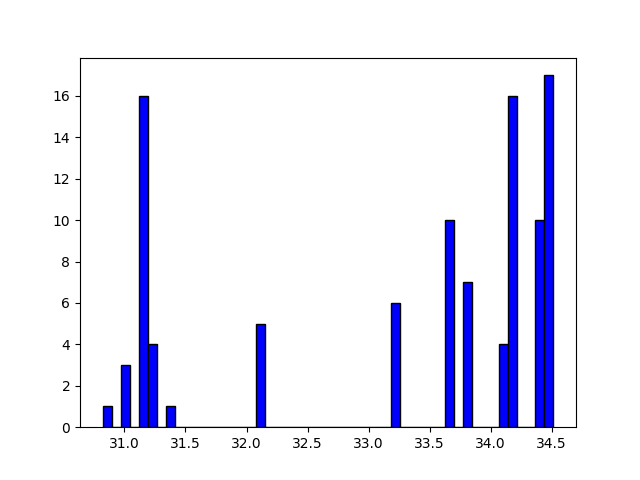
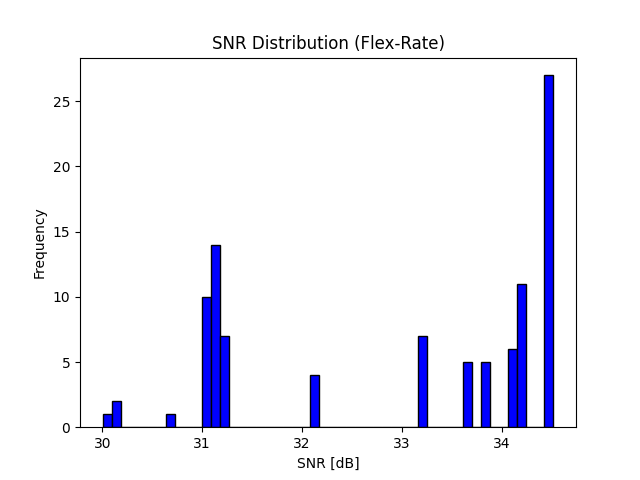
lab9: plots updated

diff --git a/Tasks/main.py b/Tasks/main.py
@@ -171,62 +171,95 @@ def main():
     latency_array3 = np.array(latency_no_zero3)
     bit_rate_array3 = np.array(bit_rate_no_zero3)
 
+    file = open(root / 'Results/Lab9/bit_rates_capacities_and_blocking_events.txt', "w")
+
+    file.write('- Blocking events:\n')
     print('Blocking events for full fixed rate = ', number_of_blocks_full_fixed)
+    file.write('\tBlocking events (Fixed-Rate) = ' + str(number_of_blocks_full_fixed) + '\n')
     print('Blocking events for full flex rate = ', number_of_blocks_full_flex)
+    file.write('\tBlocking events (Flex-Rate) = ' + str(number_of_blocks_full_flex) + '\n')
     print('Blocking events for full shannon = ', number_of_blocks_full_shannon)
+    file.write('\tBlocking events (Shannon) = ' + str(number_of_blocks_full_shannon) + '\n\n')
 
-    file = open(root / 'Results/Lab9/bit_rates_and_capacities.txt', "a")
-
+    file.write('- Bit Rate mean:\n')
     bit_rate_mean = np.mean(bit_rate_array)
     bit_rate_mean2 = np.mean(bit_rate_array2)
     bit_rate_mean3 = np.mean(bit_rate_array3)
     print('Bit rate mean for full fixed rate = ', bit_rate_mean, 'Gbps')
-    file.write('Bit rate mean for full fixed rate = ' + str(bit_rate_mean) + ' Gbps\n')
+    file.write('\tBit rate mean for full fixed rate = ' + str(bit_rate_mean) + ' Gbps\n')
     print('Bit rate mean for full flex rate = ', bit_rate_mean2, 'Gbps')
-    file.write('Bit rate mean for full flex rate = ' + str(bit_rate_mean2) + ' Gbps\n')
+    file.write('\tBit rate mean for full flex rate = ' + str(bit_rate_mean2) + ' Gbps\n')
     print('Bit rate mean for full shannon = ', bit_rate_mean3, 'Gbps')
-    file.write('Bit rate mean for full shannon = ' + str(bit_rate_mean3) + ' Gbps\n\n')
+    file.write('\tBit rate mean for full shannon = ' + str(bit_rate_mean3) + ' Gbps\n\n')
 
+    file.write('- Capacity:\n')
     capacity = np.sum(bit_rate_array)
     capacity2 = np.sum(bit_rate_array2)
     capacity3 = np.sum(bit_rate_array3)
     print('Capacity for full fixed rate = ', capacity, 'Gbps')
-    file.write('Capacity for full fixed rate = ' + str(capacity) + ' Gbps\n')
+    file.write('\tCapacity for full fixed rate = ' + str(capacity) + ' Gbps\n')
     print('Capacity mean for full flex rate = ', capacity2, 'Gbps')
-    file.write('Capacity for full flex rate = ' + str(capacity2) + ' Gbps\n')
+    file.write('\tCapacity for full flex rate = ' + str(capacity2) + ' Gbps\n')
     print('Capacity mean for full shannon = ', capacity3, 'Gbps')
-    file.write('Capacity for full shannon = ' + str(capacity3) + ' Gbps\n')
+    file.write('\tCapacity for full shannon = ' + str(capacity3) + ' Gbps\n')
     file.close()
 
     # Result plotting
 
     plt.hist(snr_array, color='blue', edgecolor='black', bins=50)
+    plt.xlabel('SNR [dB]')
+    plt.ylabel('Frequency')
+    plt.title('SNR Distribution (Fixed-Rate)')
     plt.savefig(root / 'Results/Lab9/snr_distribution_fixed.png')
     plt.show()
-    plt.hist(latency_array, color='blue', edgecolor='black', bins=50)
+    plt.hist(latency_array * 1e3, color='red', edgecolor='black', bins=50)
+    plt.xlabel('Latency [ms]')
+    plt.ylabel('Frequency')
+    plt.title('Latency Distribution (Fixed-Rate)')
     plt.savefig(root / 'Results/Lab9/latency_distribution_fixed.png')
     plt.show()
-    plt.hist(bit_rate_array, color='blue', edgecolor='black', bins=50)
+    plt.hist(bit_rate_array, color='green', edgecolor='black', bins=50)
+    plt.xlabel('Bit Rate [Gbps]')
+    plt.ylabel('Frequency')
+    plt.title('Bit Rate Distribution (Fixed-Rate)')
     plt.savefig(root / 'Results/Lab9/bit_rate_distribution_fixed.png')
     plt.show()
 
     plt.hist(snr_array2, color='blue', edgecolor='black', bins=50)
+    plt.xlabel('SNR [dB]')
+    plt.ylabel('Frequency')
+    plt.title('SNR Distribution (Flex-Rate)')
     plt.savefig(root / 'Results/Lab9/snr_distribution_flex.png')
     plt.show()
-    plt.hist(latency_array2, color='blue', edgecolor='black', bins=50)
+    plt.hist(latency_array2 * 1e3, color='red', edgecolor='black', bins=50)
+    plt.xlabel('Latency [ms]')
+    plt.ylabel('Frequency')
+    plt.title('Latency Distribution (Flex-Rate)')
     plt.savefig(root / 'Results/Lab9/latency_distribution_flex.png')
     plt.show()
-    plt.hist(bit_rate_array2, color='blue', edgecolor='black', bins=50)
+    plt.hist(bit_rate_array2, color='green', edgecolor='black', bins=50)
+    plt.xlabel('Bit Rate [Gbps]')
+    plt.ylabel('Frequency')
+    plt.title('Bit Rate Distribution (Flex-Rate)')
     plt.savefig(root / 'Results/Lab9/bit_rate_distribution_flex.png')
     plt.show()
 
     plt.hist(snr_array3, color='blue', edgecolor='black', bins=50)
+    plt.xlabel('SNR [dB]')
+    plt.ylabel('Frequency')
+    plt.title('SNR Distribution (Shannon)')
     plt.savefig(root / 'Results/Lab9/snr_distribution_shannon.png')
     plt.show()
-    plt.hist(latency_array3, color='blue', edgecolor='black', bins=50)
+    plt.hist(latency_array3 * 1e3, color='red', edgecolor='black', bins=50)
+    plt.xlabel('Latency [ms]')
+    plt.ylabel('Frequency')
+    plt.title('Latency Distribution (Shannon)')
     plt.savefig(root / 'Results/Lab9/latency_distribution_shannon.png')
     plt.show()
-    plt.hist(bit_rate_array3, color='blue', edgecolor='black', bins=50)
+    plt.hist(bit_rate_array3, color='green', edgecolor='black', bins=50)
+    plt.xlabel('Bit Rate [Gbps]')
+    plt.ylabel('Frequency')
+    plt.title('Bit Rate Distribution (Shannon)')
     plt.savefig(root / 'Results/Lab9/bit_rate_distribution_shannon.png')
     plt.show()
 
